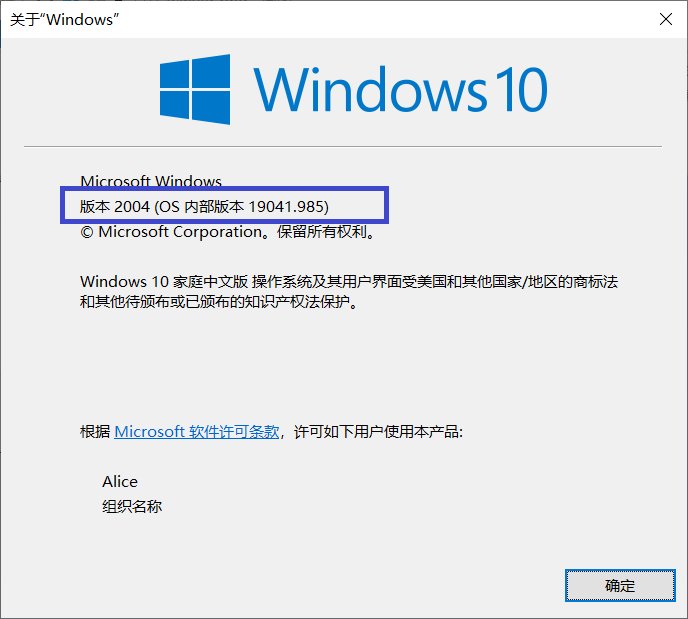
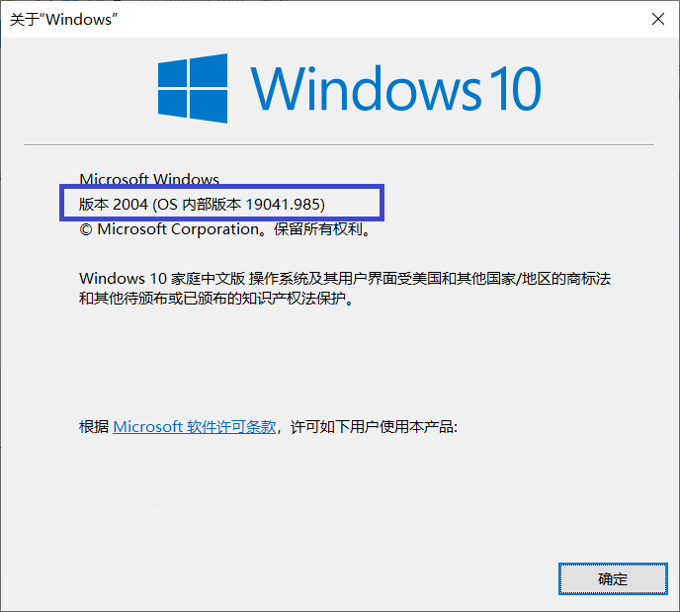
.

diff --git a/docsphinx/acadynamo/wordpress/docker.rst b/docsphinx/acadynamo/wordpress/docker.rst
@@ -37,12 +37,12 @@ To check the system version, run *winver*.
     :width: 320px
 
 .. image:: ../imgs/07-win-version.png
-    :width: 320px
+    :width: 240px
 
 2. WSL 2 enabled
 
 .. image:: ../imgs/08-win-virtual.png
-    :width: 320px
+    :width: 480px
 
 For details, see Docker ducuments about `install on Windows 10 <https://docs.docker.com/docker-for-windows/install/#system-requirements>`_.
 
